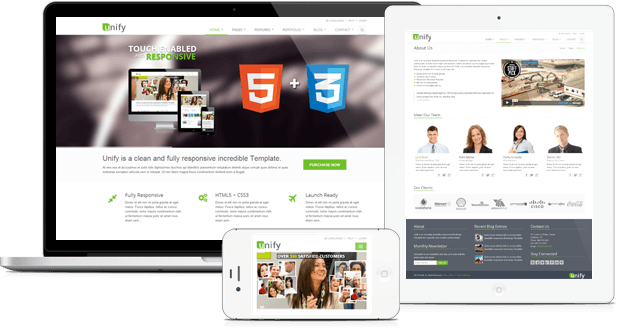
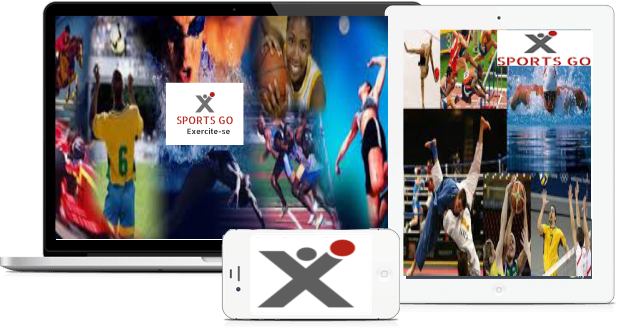
atualização de imagens e vídeo da pagina inicial

diff --git a/src/main/webapp/index.html b/src/main/webapp/index.html
@@ -92,7 +92,11 @@
 							<a href="javascript:void(0);" class="dropdown-toggle" data-toggle="dropdown">Esportes</a>
 							
 							<ul class="dropdown-menu">
-								
+							
+							    <!--Pagina inicial -->
+								<li class="active"><a href="index.html">Página Inicial</a></li>
+                                <!--Pagina inicial -->
+                                
 								<!-- FutebolPAG -->
 								<li class="dropdown-submenu"><a href="index.html">Futebol</a>
 									<ul class="dropdown-menu">
@@ -812,15 +816,16 @@
 		<div class="slider-inner">
 			<div id="da-slider" class="da-slider">
 				<div class="da-slide">
-					<h2><i>CLEAN &amp; FRESH</i> <br /> <i>FULLY RESPONSIVE</i> <br /> <i>DESIGN</i></h2>
-					<p><i>Lorem ipsum dolor amet</i> <br /> <i>tempor incididunt ut</i> <br /> <i>veniam omnis </i></p>
+					<h2><i>ENCONTRE UM ESPORTE</i> <br /> <i>RÁPIDO E FÁCIL</i> <br /> <i>EXERCITE-SE</i></h2>
+					<p><i>Milhares de anúncios</i> <br /> <i>De diversos espotes</i> <br /> <i>Profissionais e amadores</i>
+					<br /> <i>Para praticar e compertir</i></p>
 					<div class="da-img"><img class="img-responsive" src="assets/plugins/parallax-slider/img/1.png" alt=""></div>
 				</div>
 				<div class="da-slide">
 					<h2><i>RESPONSIVE VIDEO</i> <br /> <i>SUPPORT AND</i> <br /> <i>MANY MORE</i></h2>
 					<p><i>Lorem ipsum dolor amet</i> <br /> <i>tempor incididunt ut</i></p>
 					<div class="da-img">
-						<iframe src="http://player.vimeo.com/video/47911018" width="530" height="300" frameborder="0" webkitAllowFullScreen mozallowfullscreen allowFullScreen></iframe>
+						<iframe src="https://player.vimeo.com/video/181212513" width="530" height="300" frameborder="0" webkitAllowFullScreen mozallowfullscreen allowFullScreen></iframe>
 					</div>
 				</div>
 				<div class="da-slide">
@@ -1001,7 +1006,7 @@
 			<!-- End Info Blokcs -->
 
 			<!-- Owl Clients v1 -->
-			<div class="headline"><h2>Our Clients</h2></div>
+			<div class="headline"><h2>Nossos parceiros</h2></div>
 			<div class="owl-clients-v1">
 				<div class="item">
 					<img src="assets/img/clients4/1.png" alt="">
